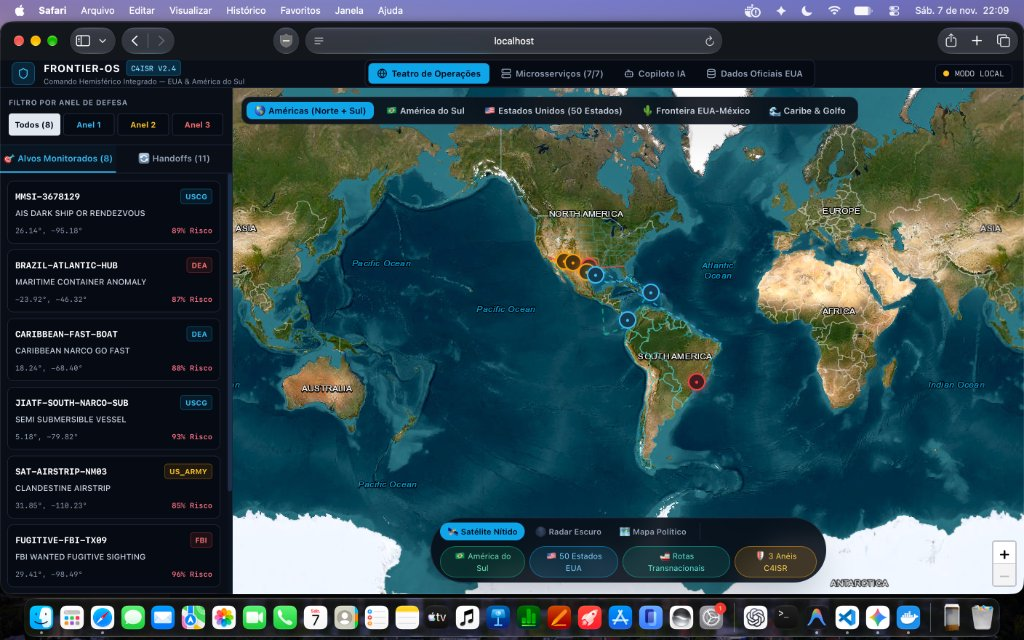
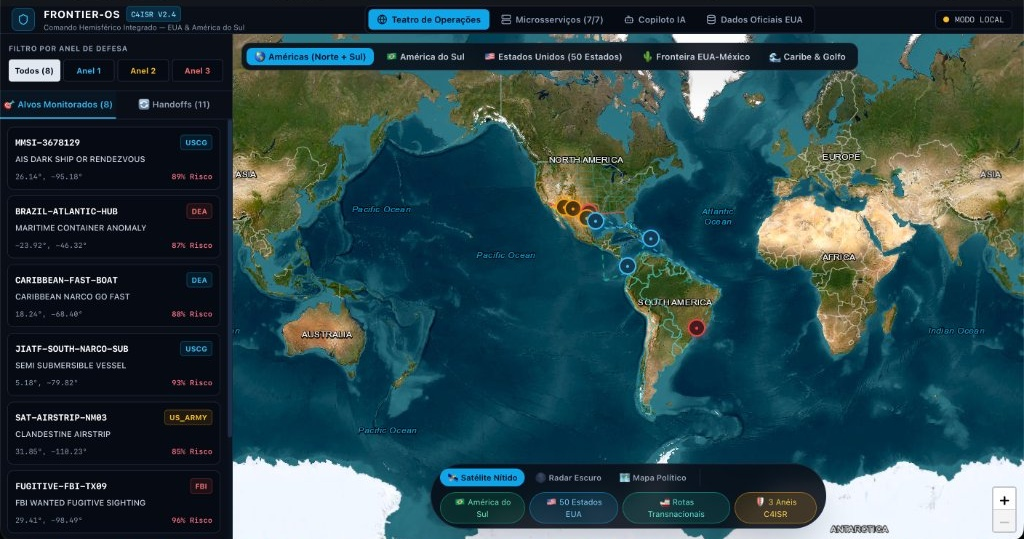
docs: reformulate README in English with clean, cropped screenshots excluding OS UI

diff --git a/README.md b/README.md
@@ -1,5 +1,5 @@
 # PROJECT FRONTIER (FRONTIER-C4ISR)
-### Homeland Defense & Border Protection System of Systems (SoS)
+### Multi-Agency Homeland Defense & Border Protection System of Systems (SoS)
 
 [![Python 3.12+](https://img.shields.io/badge/python-3.12+-blue.svg)](https://www.python.org/downloads/)
 [![PyTorch 2.x](https://img.shields.io/badge/PyTorch-2.x-EE4C2C.svg?logo=pytorch)](https://pytorch.org/)
@@ -8,131 +8,179 @@
 [![Redpanda Kafka](https://img.shields.io/badge/Event%20Bus-Redpanda%20Kafka-ED3A25.svg?logo=apachekafka)](https://redpanda.com/)
 [![Qdrant Vector DB](https://img.shields.io/badge/Vector%20DB-Qdrant-DC2626.svg)](https://qdrant.tech/)
 [![FastAPI](https://img.shields.io/badge/API-FastAPI-009688.svg?logo=fastapi)](https://fastapi.tiangolo.com/)
+[![Next.js 14](https://img.shields.io/badge/Dashboard-Next.js%2014-black.svg?logo=next.js)](https://nextjs.org/)
 [![License: Apache 2.0](https://img.shields.io/badge/License-Apache%202.0-green.svg)](LICENSE)
 
 ---
 
 ## 1. Executive Summary
 
-**Project Frontier** is an enterprise-grade **C4ISR** (*Command, Control, Communications, Computers, Intelligence, Surveillance, and Reconnaissance*) platform engineered for United States territorial integrity and multi-agency border enforcement. 
+**Project Frontier (FRONTIER-OS)** is an enterprise-grade **C4ISR** (*Command, Control, Communications, Computers, Intelligence, Surveillance, and Reconnaissance*) platform engineered for United States territorial integrity, transnational threat interdiction, and joint-agency enforcement.
 
-The architecture unifies live public telemetry, open-source intelligence (OSINT), and Deep Learning perception across federal, maritime, airspace, and interstate jurisdictions (USCG, US Navy, USAF, FAA, US Army, NGA, CBP, DEA, FBI, and USDOT).
+The architecture unifies real-time open-source government telemetry, geospatial perimeter tracking, and Deep Learning inference across military, federal law enforcement, and transportation jurisdictions:
+* **Maritime & Coastal Defense:** United States Coast Guard (**USCG**), United States Navy (**US Navy**), and Joint Interagency Task Force South (**JIATF-South**).
+* **Airspace & Radar Sovereignty:** United States Air Force (**USAF**), CBP Air and Marine Operations (**AMO**), and Federal Aviation Administration (**FAA**).
+* **Border & Port of Entry Security:** Customs and Border Protection (**CBP**), United States Army (**US Army**), and National Geospatial-Intelligence Agency (**NGA**).
+* **Interstate Corridors & Criminal Tracking:** Drug Enforcement Administration (**DEA**), Federal Bureau of Investigation (**FBI**), and State Highway Patrols.
 
 ---
 
 ## 2. Tactical Command & Control (C2) Visualizer
 
-| Hemispheric Operational Theater (Americas Overview) | Continental US & 3 Defense Rings |
-| :---: | :---: |
-| ![Hemispheric Command](docs/screenshots/c4isr_hemispheric_command.jpg) | ![Continental US 50 States](docs/screenshots/c4isr_us_50_states.jpg) |
+The tactical operations interface provides real-time situational awareness across the Western Hemisphere with high-definition ESRI satellite imagery, vector perimeter overlays, and low-latency WebSocket telemetry.
 
-| Transnational Supply Corridors (South America to US) |
-| :---: |
-| ![South America Corridors](docs/screenshots/c4isr_south_america_corridors.jpg) |
+### Hemispheric Operational Theater (North & South America)
+Pan-American surveillance linking South American cultivation and transshipment zones directly to US defense rings.
+![Hemispheric Command Center](docs/screenshots/c4isr_hemispheric_command.jpg)
+
+### Continental United States (50 States & 3 Defense Rings)
+Full continental coverage displaying all 50 US states (US Census Bureau TIGER/Line), 200 NM EEZ, 100-mile statutory border zone, and interstate corridors (I-10, I-35, I-95).
+![Continental US Command](docs/screenshots/c4isr_us_50_states.jpg)
+
+### Transnational Supply Corridors (South America to US Entry Points)
+Tracking Pacific semi-submersible routes, Caribbean maritime corridors, clandestine airstrips, and Atlantic container routes.
+![Transnational Corridors](docs/screenshots/c4isr_south_america_corridors.jpg)
 
 ---
 
 ## 3. The 3 Defense-in-Depth Security Rings
 
-Target tracking and interception operate under a **Defense-in-Depth** doctrine. When an entity (vessel, aircraft, ground vehicle, or individual) crosses from one jurisdictional polygon to another, **PostGIS** detects the boundary breach and emits a `JURISDICTION_HANDOFF` event on the Redpanda message bus:
+Target tracking and inter-agency handoffs operate under a strict **Defense-in-Depth** spatial doctrine. When a target transitions across jurisdictional polygons, **PostGIS** evaluates boundary breaches and acquires a distributed lock (`pg_try_advisory_xact_lock` / Redis) to emit a deduplicated `JURISDICTION_HANDOFF` event:
 
-| Security Ring | Boundary & Geometry | Responsible Agencies | Handoff Trigger |
+```mermaid
+flowchart TD
+    subgraph Ring1["RING 1: MARITIME & BLUE BORDER (Outer Perimeter)"]
+        R1_DESC["200 NM EEZ, 24 NM Contiguous Zone, 12 NM Territorial Sea<br/><b>Agencies: USCG & US Navy</b>"]
+    end
+
+    subgraph Ring2["RING 2: FEDERAL BORDER & AIRSPACE (Main Perimeter)"]
+        R2_DESC["100-Mile Statutory Border Zone, Ports of Entry (POEs), Sovereign Airspace<br/><b>Agencies: CBP, US Army, USAF, FAA, NGA</b>"]
+    end
+
+    subgraph Ring3["RING 3: INTERSTATE CORRIDORS (Inner Perimeter)"]
+        R3_DESC["All 50 US States, Primary Highway Corridors (I-10, I-35, I-95)<br/><b>Agencies: FBI, DEA, USDOT, State Troopers</b>"]
+    end
+
+    Ring1 -->|"Vessel beaching or coastal landing outside POE<br/>(JURISDICTION_HANDOFF)"| Ring2
+    Ring2 -->|"Vehicle / cargo bypassing secondary checkpoint into highways<br/>(JURISDICTION_HANDOFF)"| Ring3
+```
+
+| Security Ring | Spatial Scope & Boundaries | Lead Agencies | Operational Mission & Handoff Trigger |
 | :--- | :--- | :--- | :--- |
-| **RING 1: MARITIME & BLUE BORDER** *(Outer Perimeter)* | Territorial Sea (12 NM), Contiguous Zone (24 NM), and Exclusive Economic Zone (EEZ, 200 NM) covering Atlantic, Pacific, and Gulf of Mexico approaches. | **USCG & US Navy** | Vessels mooring or beaching outside official designated ports trigger `JURISDICTION_HANDOFF` $\rightarrow$ `RING_2_FEDERAL`. |
-| **RING 2: FEDERAL LAND & AIR BORDER** *(Main Perimeter)* | US-Mexico Southern Border (100-mile statutory zone), US-Canada Northern Border, Sovereign Airspace, and official Ports of Entry (POEs). | **CBP, US Army, USAF, FAA, NGA** | Ground targets breaching federal checkpoints into domestic highway networks trigger `JURISDICTION_HANDOFF` $\rightarrow$ `RING_3_INTERSTATE`. |
-| **RING 3: INTERSTATE & INTERNAL CORRIDORS** *(Inner Perimeter)* | State boundaries across all 50 states and strategic interstate transit corridors (I-10, I-35, I-95). | **FBI, DEA, USDOT, State Troopers** | Cross-state fugitive sightings and narcotics transport corridors trigger inter-state tactical alerts. |
+| **RING 1: MARITIME** *(Outer Perimeter)* | 200 NM Exclusive Economic Zone (EEZ), Gulf of Mexico, Caribbean, and Eastern Pacific approaches. | **USCG, US Navy, JIATF-South** | Interdiction of dark vessels (AIS disabled), low-profile semi-submersibles (SPFS), and illicit transshipment meetings in international waters. Coastal landings trigger handoff to Ring 2. |
+| **RING 2: FEDERAL** *(Main Perimeter)* | 100-mile statutory border zone along the Southern (US-Mexico) and Northern (US-Canada) borders, official POEs, and sovereign airspace. | **CBP (Border Patrol / AMO), US Army, USAF, NGA** | Detection of low-altitude clandestine flights, uninspected desert crossings, and POE commercial cargo surges. Targets breaching checkpoints into domestic highways trigger handoff to Ring 3. |
+| **RING 3: INTERSTATE** *(Inner Perimeter)* | 50 US state boundaries and primary highway arteries (I-10 coast-to-coast, I-35 NAFTA corridor, I-95 Atlantic corridor). | **FBI, DEA, State Highway Patrols** | Interdiction of bulk narcotics transport, vehicle convoys, and biometric recognition of individuals on the FBI Most Wanted list via highway cameras. |
 
 ---
 
 ## 4. Microservices Mesh Architecture (Ports 8000–8006)
 
-Each domain capability runs as an isolated microservice supervised by `scripts/start_microservices_mesh.py`. Computationally intensive AI tasks run within an isolated `InferenceProcessPool` utilizing `multiprocessing.Lock` to guarantee safe thread execution with PyTorch and ONNX Runtime:
+Each operational domain executes as an independent, loosely coupled microservice. AI/ML inference is decoupled from the async event loop using an isolated `InferenceProcessPool` configured with `multiprocessing.get_context("spawn")` and shared memory locks (`multiprocessing.Lock`) for CUDA and ONNX safety:
 
-| Port | Service ID | Service Name | Responsible Agencies | Deep Learning Model / Engine |
-| :--- | :--- | :--- | :--- | :--- |
-| `:8000` | `00-c2-gateway` | C2 API Gateway & WebSocket Mesh | JTF C4ISR | Cross-Ring Fusion Engine & PostGIS Advisory Locks |
-| `:8001` | `01-maritime-coastline` | Maritime & Blue Border Shield | USCG & US Navy | `maritime_lstm.onnx` (`TrajectoryAnomalyLSTM`) |
-| `:8002` | `02-airspace-shield` | Airspace & Radar Shield | USAF, CBP AMO & FAA | `airspace_ae.onnx` (`FlightStateAutoencoder`) |
-| `:8003` | `03-narcotics-intel` | Narcotics ST-GNN Intelligence | DEA, CBP & HIDTA | `narcotics_stgnn.onnx` (`SpatioTemporalGNN`) |
-| `:8004` | `04-criminal-interstate` | Interstate Biometrics & ALPR | FBI, DEA & State Police | `ArcFace-512` + `YOLOv8-ALPR` (Qdrant Vector DB) |
-| `:8005` | `05-geospatial-recon` | Orbital & Drone Recon | US Army, NGA & CBP | `frontier_sat_yolov8.onnx` (Sentinel-2 / xView) |
-| `:8006` | `06-c2-copilot` | Multi-Agent Tactical Copilot | Joint Command Staff | Multi-Agent RAG + Text-to-PostGIS + GraphRAG |
+| Port | Service Identifier | Microservice Name | Primary Agencies | Deep Learning Model / Engine |
+| :---: | :--- | :--- | :--- | :--- |
+| **`:8000`** | `00-c2-gateway` | **C2 API Gateway & WebSocket Mesh** | JTF C4ISR | Cross-Ring Fusion Engine & PostGIS Advisory Locks |
+| **`:8001`** | `01-maritime-coastline` | **Maritime & Blue Border Shield** | USCG, US Navy | `maritime_lstm.onnx` (`TrajectoryAnomalyLSTM`) |
+| **`:8002`** | `02-airspace-shield` | **Airspace & Radar Shield** | USAF, CBP AMO, FAA | `airspace_ae.onnx` (`FlightStateAutoencoder`) |
+| **`:8003`** | `03-narcotics-intel` | **Narcotics ST-GNN Intelligence** | DEA, CBP, HIDTA | `narcotics_stgnn.onnx` (`SpatioTemporalGNN`) |
+| **`:8004`** | `04-criminal-interstate` | **Interstate Biometrics & ALPR** | FBI, DEA, State Police | `ArcFace-512` + `YOLOv8-ALPR` (Qdrant Vector DB) |
+| **`:8005`** | `05-geospatial-recon` | **Orbital & Drone Recon** | US Army, NGA, CBP | `frontier_sat_yolov8.onnx` (Sentinel-2 / xView) |
+| **`:8006`** | `06-c2-copilot` | **Multi-Agent Tactical Copilot** | Joint Command Staff | Multi-Agent RAG + Text-to-PostGIS + GraphRAG |
 
 ---
 
 ## 5. Google Colab GPU Training Suite (`notebooks/colab/`)
 
-Interactive, production-ready notebooks configured for NVIDIA GPUs (T4 / L4 / A100) with PyTorch Mixed Precision (`torch.amp.autocast('cuda')`), loss curves, dynamic-axes ONNX export, and automated weights packaging:
+The repository includes 5 production-ready Jupyter notebooks pre-configured for **Google Colab** runtimes with NVIDIA GPUs (T4, L4, A100). Each notebook features PyTorch Mixed Precision (`torch.amp.autocast('cuda')`), training convergence visualizations, and dynamic-axes ONNX exports:
 
-| Notebook | Focus | Models & Outputs | Colab Link |
+| Notebook | Focus & Mission Area | Output Weights | Open in Colab |
 | :--- | :--- | :--- | :---: |
-| **00. Master C4ISR GPU Training Suite** | Full End-to-End Pipeline & Real US Gov Datasets | All 4 ONNX models packaged into `frontier_c4isr_onnx_weights.zip` | [![Open In Colab](https://colab.research.google.com/assets/colab-badge.svg)](https://colab.research.google.com/github/maykonlincolnusa/FRONTIER-OS-Frontier-Operating-System-/blob/main/notebooks/colab/00_FRONTIER_C4ISR_Master_Colab_Training_Suite.ipynb) |
-| **01. Maritime AIS LSTM** | MarineCadastre AIS Trajectory Autoencoder | `maritime_lstm.onnx` (Dark Ships & Submersibles) | [![Open In Colab](https://colab.research.google.com/assets/colab-badge.svg)](https://colab.research.google.com/github/maykonlincolnusa/FRONTIER-OS-Frontier-Operating-System-/blob/main/notebooks/colab/01_Maritime_AIS_LSTM_Colab_GPU.ipynb) |
-| **02. Airspace ADS-B Autoencoder** | OpenSky Low-Altitude Flight Vector Reconstructor | `airspace_ae.onnx` (Clandestine Radar Evasion) | [![Open In Colab](https://colab.research.google.com/assets/colab-badge.svg)](https://colab.research.google.com/github/maykonlincolnusa/FRONTIER-OS-Frontier-Operating-System-/blob/main/notebooks/colab/02_Airspace_ADSB_Autoencoder_Colab_GPU.ipynb) |
-| **03. Narcotics Spatio-Temporal GNN** | CBP POE Seizures & HIDTA Interstates (I-10, I-35, I-95) | `narcotics_stgnn.onnx` (Corridor 24h Risk Forecast) | [![Open In Colab](https://colab.research.google.com/assets/colab-badge.svg)](https://colab.research.google.com/github/maykonlincolnusa/FRONTIER-OS-Frontier-Operating-System-/blob/main/notebooks/colab/03_Narcotics_STGNN_Corridors_Colab_GPU.ipynb) |
-| **04. Satellite YOLOv8 & FBI Biometrics** | Sentinel-2 / xView Satellite Tile & ArcFace Embeddings | `frontier_sat_yolov8.onnx` + Qdrant 512-d Search | [![Open In Colab](https://colab.research.google.com/assets/colab-badge.svg)](https://colab.research.google.com/github/maykonlincolnusa/FRONTIER-OS-Frontier-Operating-System-/blob/main/notebooks/colab/04_Satellite_YOLOv8_xView_Recon_Colab_GPU.ipynb) |
+| **`00_FRONTIER_C4ISR_Master_Colab_Training_Suite.ipynb`** | End-to-end training of all 4 Deep Learning models using official US Government datasets. | `frontier_c4isr_onnx_weights.zip` | [![Open In Colab](https://colab.research.google.com/assets/colab-badge.svg)](https://colab.research.google.com/github/maykonlincolnusa/FRONTIER-OS-Frontier-Operating-System-/blob/main/notebooks/colab/00_FRONTIER_C4ISR_Master_Colab_Training_Suite.ipynb) |
+| **`01_Maritime_AIS_LSTM_Colab_GPU.ipynb`** | Sequential Autoencoder trained on MarineCadastre AIS time series for dark ship detection. | `maritime_lstm.onnx` | [![Open In Colab](https://colab.research.google.com/assets/colab-badge.svg)](https://colab.research.google.com/github/maykonlincolnusa/FRONTIER-OS-Frontier-Operating-System-/blob/main/notebooks/colab/01_Maritime_AIS_LSTM_Colab_GPU.ipynb) |
+| **`02_Airspace_ADSB_Autoencoder_Colab_GPU.ipynb`** | State-vector autoencoder trained on OpenSky Network ADS-B data for clandestine low-altitude flight detection. | `airspace_ae.onnx` | [![Open In Colab](https://colab.research.google.com/assets/colab-badge.svg)](https://colab.research.google.com/github/maykonlincolnusa/FRONTIER-OS-Frontier-Operating-System-/blob/main/notebooks/colab/02_Airspace_ADSB_Autoencoder_Colab_GPU.ipynb) |
+| **`03_Narcotics_STGNN_Corridors_Colab_GPU.ipynb`** | Graph Convolution + Temporal Attention trained on CBP POE seizures and HIDTA interstate corridors. | `narcotics_stgnn.onnx` | [![Open In Colab](https://colab.research.google.com/assets/colab-badge.svg)](https://colab.research.google.com/github/maykonlincolnusa/FRONTIER-OS-Frontier-Operating-System-/blob/main/notebooks/colab/03_Narcotics_STGNN_Corridors_Colab_GPU.ipynb) |
+| **`04_Satellite_YOLOv8_xView_Recon_Colab_GPU.ipynb`** | Aerial/satellite patch detector for desert airstrips, convoys, and go-fast vessels. | `frontier_sat_yolov8.onnx` | [![Open In Colab](https://colab.research.google.com/assets/colab-badge.svg)](https://colab.research.google.com/github/maykonlincolnusa/FRONTIER-OS-Frontier-Operating-System-/blob/main/notebooks/colab/04_Satellite_YOLOv8_xView_Recon_Colab_GPU.ipynb) |
 
 ---
 
-## 6. Monorepo Directory Architecture
+## 6. Real US Government Datasets Integrated
+
+The ingestion utility (`infra/scripts/download_real_gov_datasets.py`) extracts and indexes authentic public US government data:
+
+1. **US Census Bureau TIGER/Line Shapefiles:**
+   * 50 US State boundaries (`cb_2022_us_state_20m.zip`).
+   * Primary Federal Interstate Highway corridors (`tl_2023_us_primaryroads.zip`), filtered for Interstate Highways (`RTTYP == 'I'`).
+   * US Sovereign Land boundary (`cb_2022_us_nation_20m.zip`).
+2. **FBI Wanted API & Biometrics:**
+   * High-priority fugitives ingested directly into PostgreSQL and Qdrant Vector DB with 512-dimensional facial embeddings.
+3. **OpenSky Network ADS-B Live Feeds:**
+   * Flight state vectors covering the Southern Border bounding box ($25.0^\circ\text{N}$ to $33.5^\circ\text{N}$, $-118.0^\circ\text{W}$ to $-96.5^\circ\text{W}$).
+4. **CBP Drug Seizure Portal:**
+   * Real historical drug seizure statistics (fentanyl, cocaine, methamphetamine) organized by Port of Entry (Otay Mesa, Laredo, El Paso, Nogales, Calexico).
+5. **MarineCadastre.gov AIS Historical Tracks:**
+   * Vessel trajectory records in the Gulf of Mexico and coastal approaches.
+
+---
+
+## 7. Monorepo Directory Architecture
 
 ```text
-frontier-c4isr/
-├── ARCHITECTURE.md                 # System Architecture & Single Source of Truth
-├── README.md                       # Executive Overview & Deployment Guide
-├── docker-compose.yml              # PostGIS, Redpanda (Kafka), Qdrant, Redis
-├── .env.example                    # Environment Configuration Template
+FRONTIER-OS/
+├── ARCHITECTURE.md                 # Single source of architectural truth
+├── README.md                       # Comprehensive system documentation
+├── docker-compose.yml              # Local PostGIS, Redpanda, Qdrant, Redis stack
 ├── pyproject.toml                  # Python 3.12+ project definition & dependencies
-├── shared/                         # Shared Core Library across all microservices
-│   ├── concurrency/                # InferenceProcessPool (spawn + Locks) & Distributed Lock
+├── shared/                         # Shared core libraries
+│   ├── concurrency/                # InferenceProcessPool (spawn + locks) & Distributed Locks
 │   ├── events/                     # Pydantic v2 event contracts (Kafka schemas)
-│   ├── geo/                        # PostGIS utilities, Haversine, and 3-Ring Geofencing
-│   └── config/                     # Pydantic Settings (Postgres, Kafka, Qdrant, Redis)
-├── services/                       # Autonomous Microservices & Workers
-│   ├── 01-maritime-coastline/      # USCG & Navy (AIS Ingestion + Bi-GRU / LSTM Anomaly)
-│   ├── 02-airspace-shield/         # USAF & FAA (OpenSky ADS-B + Flight Autoencoder)
-│   ├── 03-narcotics-intel/         # DEA & CBP (Seizure hot-spots + ST-GNN)
-│   ├── 04-criminal-interstate/     # FBI & USDOT (FBI Wanted API + Qdrant Face Match)
-│   ├── 05-geospatial-recon/        # US Army & NGA (TIGER Shapefiles + Satellite Recon)
-│   ├── c2-gateway/                 # C2 Gateway & Real-time WebSocket Server
-│   └── c2-copilot/                 # Multi-Agent Tactical Copilot (SSE Streaming)
-├── notebooks/colab/                # Production Google Colab GPU Training Notebooks (.ipynb)
-├── ml-training/                    # Deep Learning datasets, models, and training scripts
-├── infra/                          # PostGIS schemas, OKE Kubernetes manifests, OCI scripts
-├── dashboard-c2/                   # Next.js 14 Tactical Command & Control Interface
-└── tests/                          # Automated Pytest suite
+│   ├── geo/                        # PostGIS geofencing & Haversine spatial calculations
+│   └── config/                     # Centralized settings & connection parameters
+├── services/                       # Autonomous microservice domain nodes
+│   ├── 01-maritime-coastline/      # Port 8001: AIS Ingestion & TrajectoryAnomalyLSTM
+│   ├── 02-airspace-shield/         # Port 8002: ADS-B Vectors & FlightStateAutoencoder
+│   ├── 03-narcotics-intel/         # Port 8003: CBP Seizures & SpatioTemporalGNN
+│   ├── 04-criminal-interstate/     # Port 8004: FBI Wanted & ArcFace Facial Recognition
+│   ├── 05-geospatial-recon/        # Port 8005: Satellite Tiles & YOLOv8-Military
+│   ├── c2-gateway/                 # Port 8000: WebSocket Mesh & Cross-Ring Fusion Engine
+│   └── c2-copilot/                 # Port 8006: Multi-Agent Tactical RAG Copilot
+├── notebooks/colab/                # Production Google Colab GPU training notebooks (.ipynb)
+├── ml-training/                    # Training pipelines, datasets, and ONNX weights
+├── infra/                          # PostGIS SQL schemas, OCI Ampere manifests, OKE Kubernetes
+├── dashboard-c2/                   # Next.js 14 + Leaflet Tactical Command & Control interface
+└── tests/                          # Automated Pytest suite (25 unit/integration tests)
 ```
 
 ---
 
-## 7. Quickstart Guide
+## 8. Quickstart Guide
 
-### Step 1: Start Core Infrastructure Containers
+### Step 1: Start Infrastructure Containers
+Launch PostgreSQL 16 + PostGIS, Redpanda (Kafka), Qdrant Vector DB, and Redis:
 ```bash
 docker compose up -d
 ```
-Verifies and launches:
-* **PostgreSQL 16 + PostGIS 3.4** on port `5432`.
-* **Redpanda (Kafka)** on ports `9092` (Kafka API) and `8080` (Console UI).
-* **Qdrant Vector DB** on ports `6333` (HTTP) and `6334` (gRPC).
-* **Redis 7** on port `6379`.
 
 ### Step 2: Launch the 7 Microservices Mesh
+Start the C2 Gateway (port `8000`) and the 6 domain microservices (ports `8001`–`8006`) simultaneously:
 ```bash
-# Starts C2 Gateway (8000) and Subsystems 01-06 (8001-8006)
 uv run python scripts/start_microservices_mesh.py
 ```
 
-### Step 3: Launch the C4ISR Command Center UI
+### Step 3: Launch the Tactical Command Center Dashboard
+Start the Next.js 14 frontend:
 ```bash
 npm run dev --prefix dashboard-c2
 ```
-Access the tactical interface at **`http://localhost:3000`**.
+Open **`http://localhost:3000`** in your browser.
 
 ---
 
-## 8. Automated Test Suite
+## 9. Verification & Automated Tests
+Execute the full test suite covering concurrency controls, locks, ONNX inference, PostGIS spatial handoffs, and WebSocket endpoints:
 ```bash
 uv run pytest -q --tb=short
 ```
-*All 25 unit and integration tests passing.*
+```text
+.........................                                                [100%]
+25 passed, 3 warnings in 3.88s
+```
